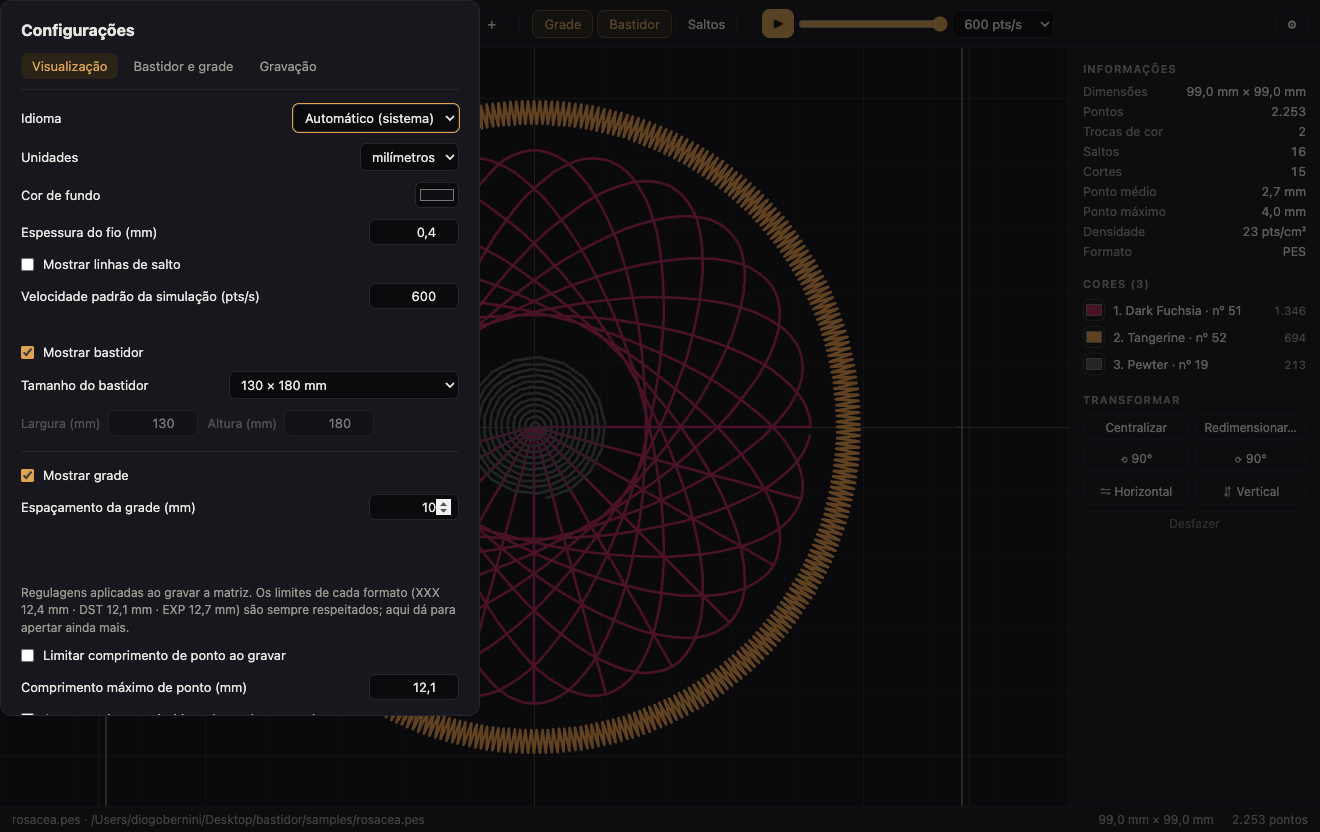
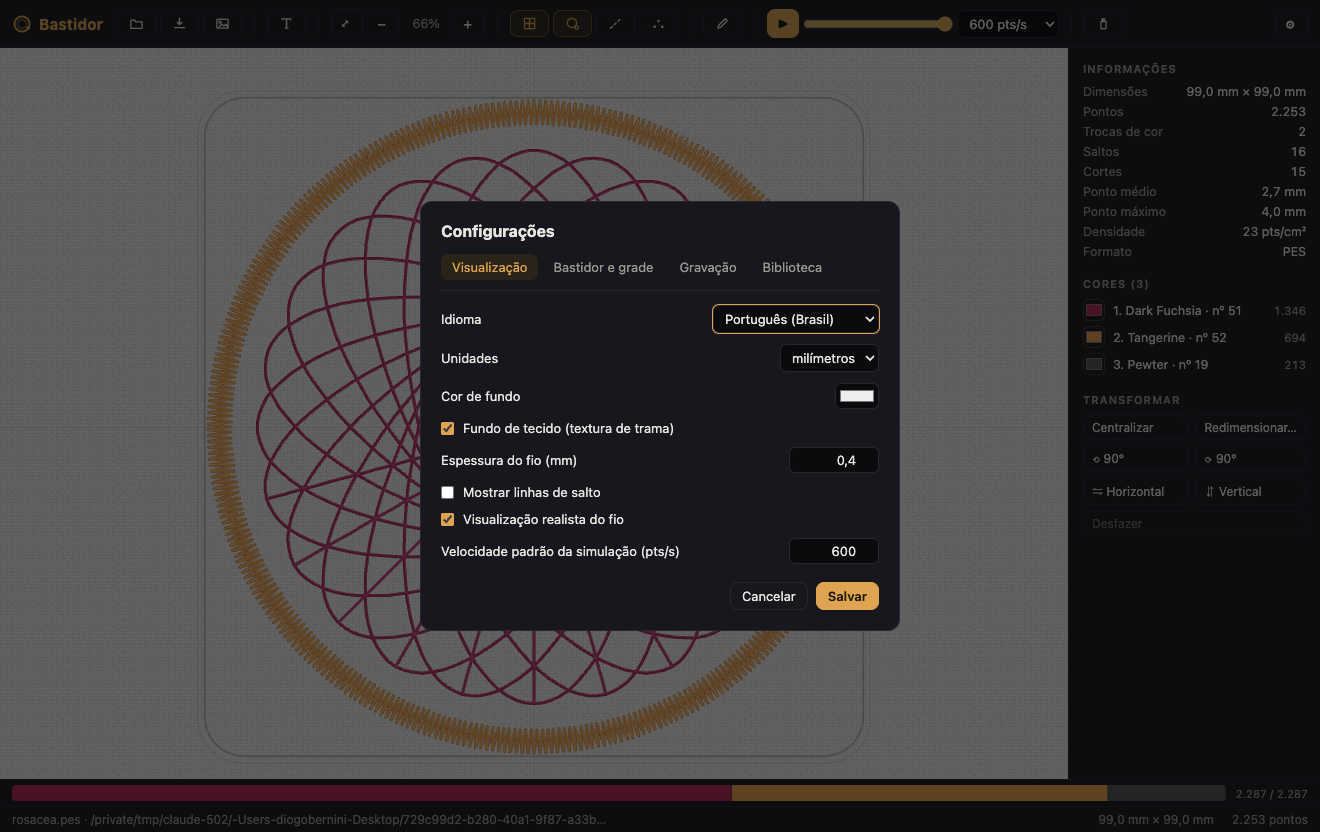
Refresh README screenshots and font credits (issue #36) (#39)
* Refresh README screenshots and font credits

- Regenerate all 8 screenshots (EN/PT) with current UI: main, settings, welcome, library
- Add library manager screenshot to both READMEs
- Document bundled fonts: Hershey, EMS, Pacifico, and Ink/Stitch collection
- Reference fonts/README.md for detailed credits and licenses

* Review: neutral demo library in screenshots, middot in library titles

The library captures were showing the user's real personal catalog;
regenerated against a synthetic demo library with a pristine profile.
Also replaced the em dash in 'Library — Open/Save design' with the
project's middot separator, in both languages.

---------

diff --git a/src/i18n.js b/src/i18n.js
@@ -329,8 +329,8 @@ const STRINGS = {
 
     // Library manager (issue #17): browse the catalog by folder, with search,
     // filters, favorites and open/save-as integration.
-    'lib.titleOpen': 'Library — Open design',
-    'lib.titleSave': 'Library — Save design',
+    'lib.titleOpen': 'Library · Open design',
+    'lib.titleSave': 'Library · Save design',
     'lib.searchPlaceholder': 'Search by name…',
     'lib.filterFormatTip': 'Filter by format',
     'lib.filterFormatAll': 'All formats',

diff --git a/README.pt-BR.md b/README.pt-BR.md
@@ -63,6 +63,10 @@ e cores idênticas, e vice-versa (suíte em `tests/`).
 |---|---|
 | ![Configurações](docs/pt/configuracoes.png) | ![Tela inicial](docs/pt/inicial.png) |
 
+| Biblioteca (navegar matrizes, buscar, miniaturas) |
+|---|
+| ![Biblioteca](docs/pt/biblioteca.png) |
+
 ## Rodando
 
 Requisitos: [Node.js](https://nodejs.org) 18 ou superior.
@@ -139,6 +143,17 @@ ao trabalho generoso de código aberto de outras pessoas:
 
 Muito obrigado! A licença MIT original está preservada em
 [`LICENSES/pystitch-LICENSE.txt`](LICENSES/pystitch-LICENSE.txt).
+
+### Fontes incluídas
+
+O Bastidor vem com fontes de linha única para lettering sob a Licença de Fonte Aberta SIL e licenças livres relacionadas:
+
+- **Hershey Sans 1-stroke**: Licença Hershey Fonts (permissiva com atribuição)
+- **EMS Nixish** e **EMS Allure**: Licença de Fonte Aberta SIL 1.1
+- **Pacifico Regular**: Licença de Fonte Aberta SIL 1.1
+- **Allegria Sample** (coleção de fontes Ink/Stitch): Licença de Fonte Aberta SIL 1.1
+
+Veja [`fonts/README.md`](fonts/README.md) para créditos detalhados e arquivos de licença.
 
 ## Licença
 

diff --git a/README.md b/README.md
@@ -63,6 +63,10 @@ and colors, and vice versa (see `tests/`).
 |---|---|
 | ![Settings](docs/en/settings.png) | ![Welcome screen](docs/en/welcome.png) |
 
+| Library (browse designs, search, thumbnails) |
+|---|
+| ![Library](docs/en/library.png) |
+
 ## Running
 
 Requires [Node.js](https://nodejs.org) 18 or newer.
@@ -139,6 +143,17 @@ to the generous open source work of others:
 
 Thank you! The original MIT license is preserved in
 [`LICENSES/pystitch-LICENSE.txt`](LICENSES/pystitch-LICENSE.txt).
+
+### Bundled fonts
+
+Bastidor ships with single-line lettering fonts under the SIL Open Font License and related free licenses:
+
+- **Hershey Sans 1-stroke**: Hershey Fonts license (permissive with attribution)
+- **EMS Nixish** and **EMS Allure**: SIL Open Font License 1.1
+- **Pacifico Regular**: SIL Open Font License 1.1
+- **Allegria Sample** (Ink/Stitch fonts collection): SIL Open Font License 1.1
+
+See [`fonts/README.md`](fonts/README.md) for detailed credits and license files.
 
 ## License
 
